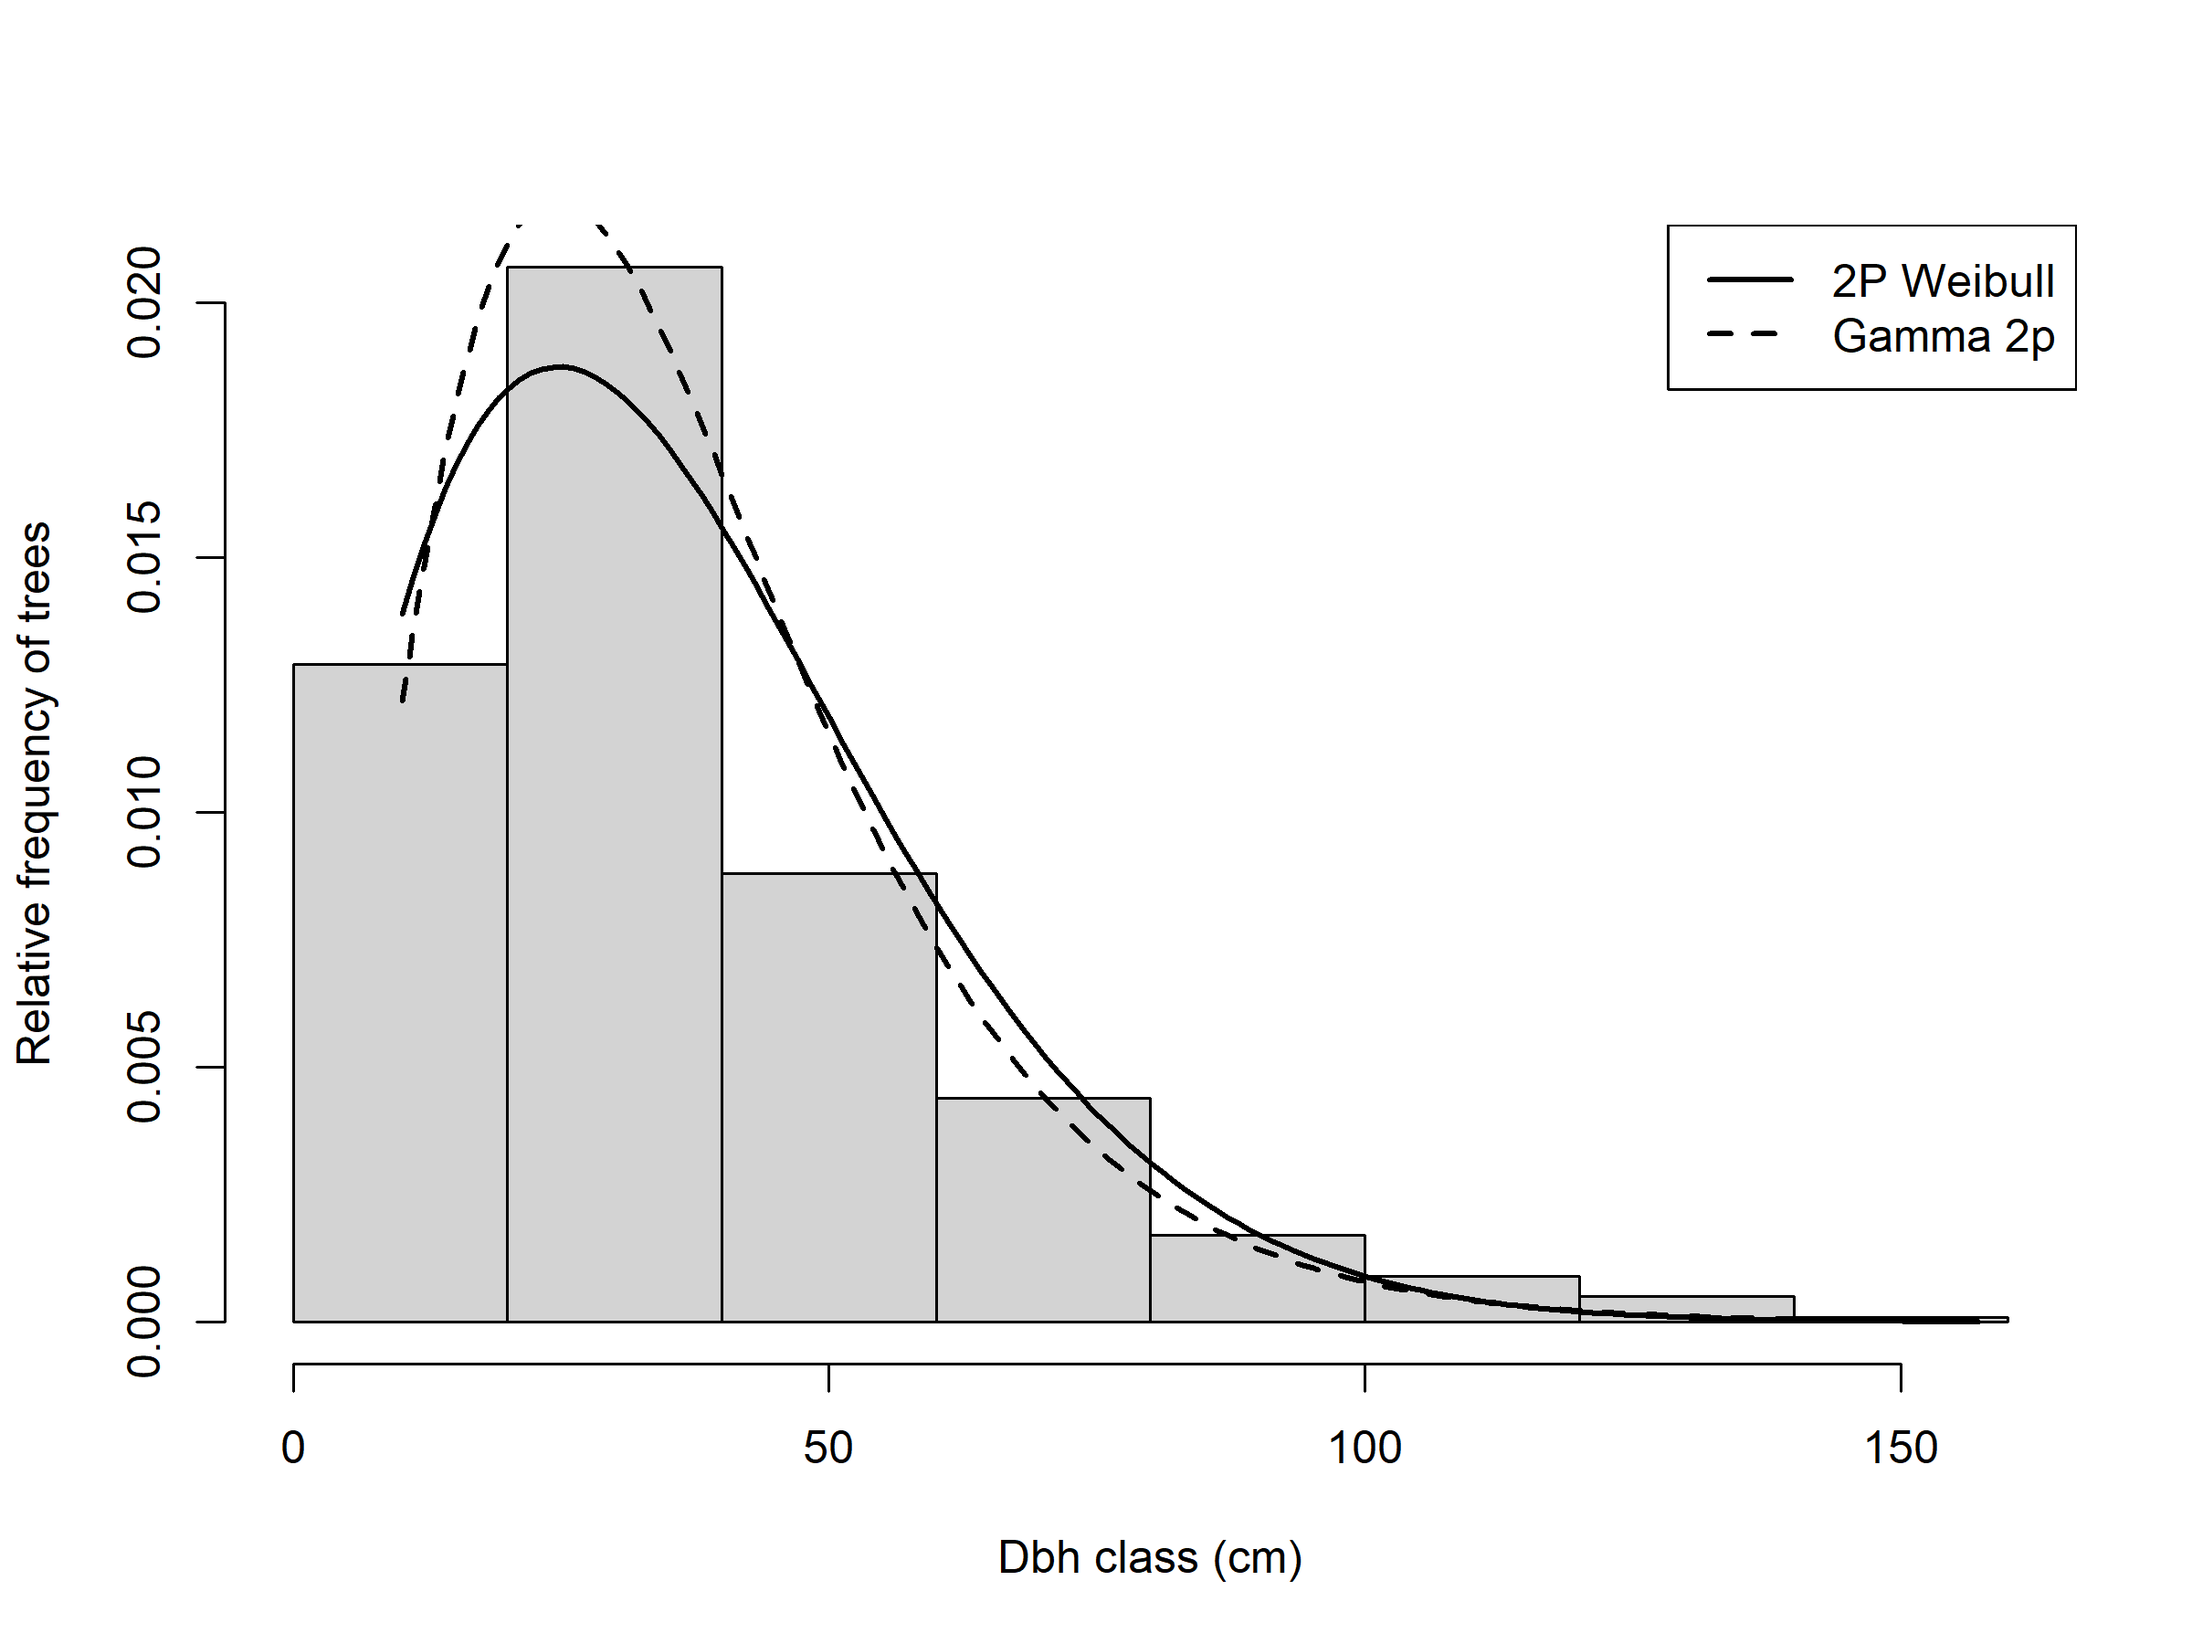
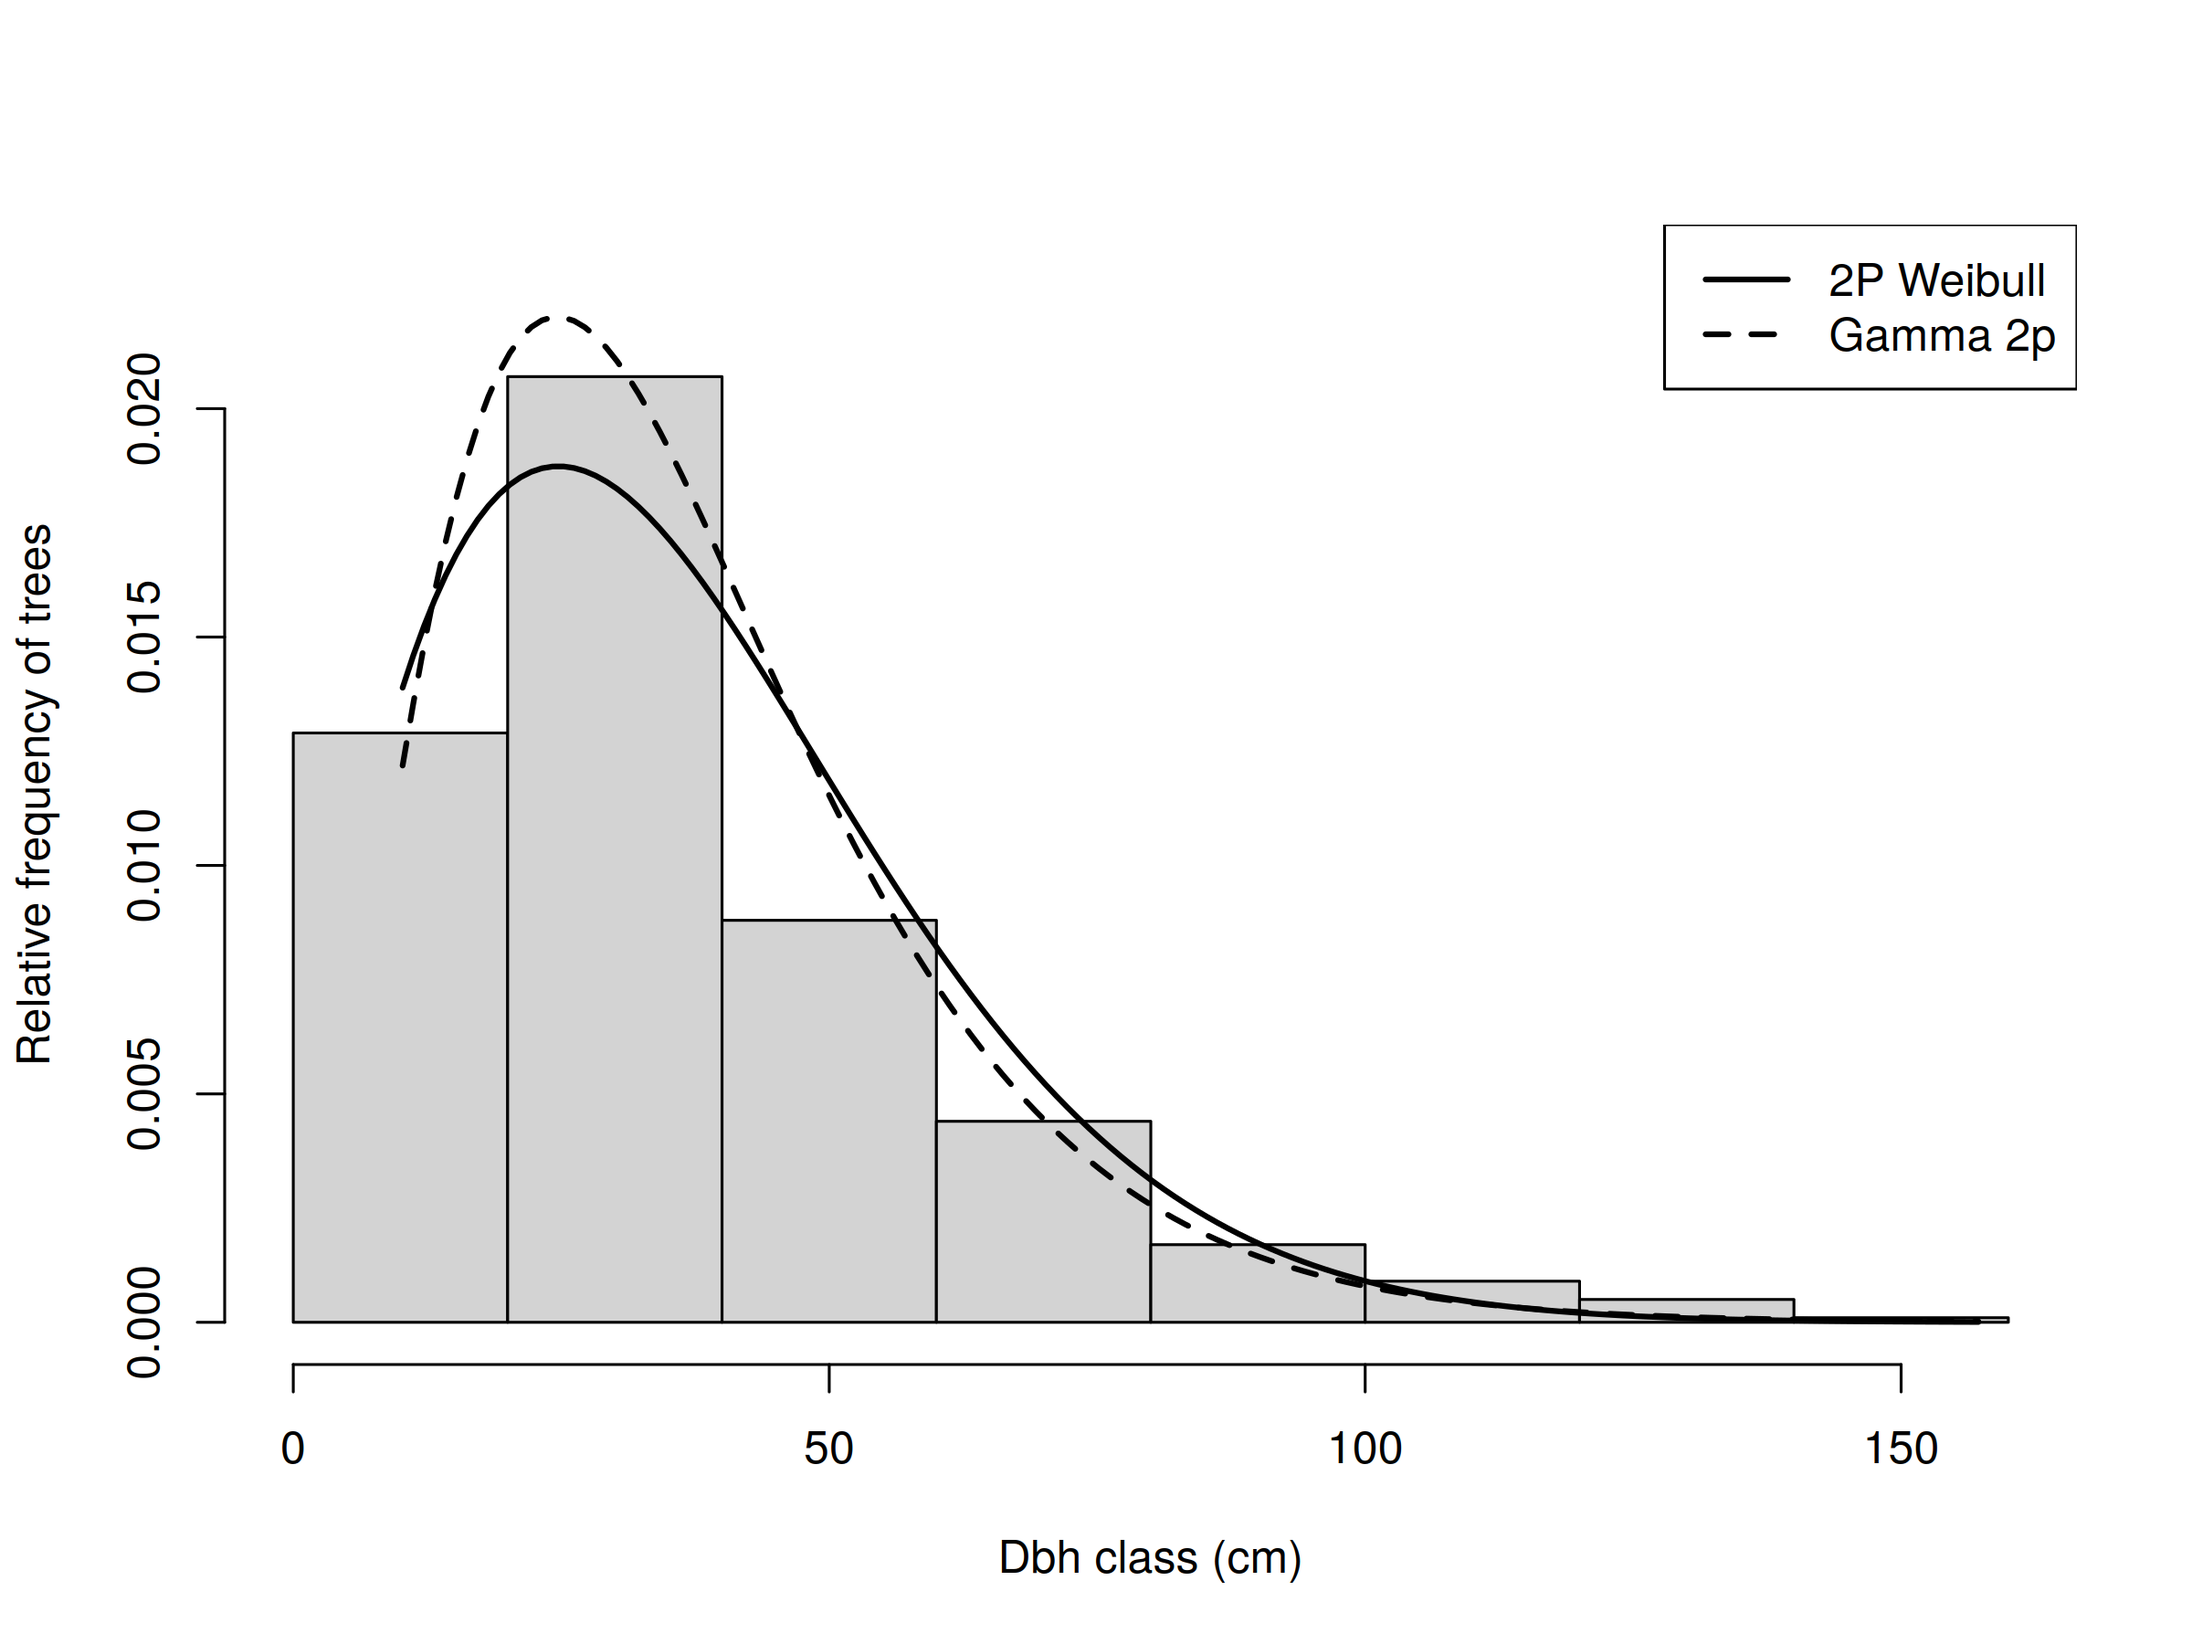
Add files via upload

diff --git a/README.md b/README.md
@@ -1,11 +1,4 @@
-![R pipeline](https://github.com/abiodun-oyediran/01-forest-diameter-distribution-modelling/actions/workflows/R-CMD-check.yml/badge.svg)
-
 # Forest Diameter Distribution Modelling
-
-![License: MIT](https://img.shields.io/badge/License-MIT-yellow.svg)
-![Language: R](https://img.shields.io/badge/language-R-blue.svg)
-![R version](https://img.shields.io/badge/R-%3E%3D%204.0-276DC3.svg)
-![Status](https://img.shields.io/badge/status-active-success.svg)
 
 ## Overview
 
@@ -67,27 +60,61 @@ dbh_sample.csv ─► 01 cleaning ─► 02 diameter classes ─► 03 distribut
 
 ## Results
 
-Running `Rscript run_all.R` writes the ranked goodness-of-fit table
-(`outputs/tables/goodness_of_fit_results.csv`) and the fitted parameters
-(`outputs/tables/parameters_*_format.csv`). The best-ranked model is the first
-row of the goodness-of-fit table and is also printed in the final summary.
-Results obtained on the bundled synthetic sample demonstrate that the pipeline
-works; they are not findings about any forest.
+Results come from running `Rscript run_all.R` on the bundled **synthetic** sample
+(500 trees, DBH 10.2–157.3 cm, mean 36.9 cm). They show that the pipeline works;
+they are not findings about any forest.
+
+Five best-ranked models by rank sum (lower is better; full table in
+`outputs/tables/goodness_of_fit_results.csv`):
+
+| Rank | Model | KS | AD | CvM | AIC | Rank sum |
+|---|---|---|---|---|---|---|
+| 1 | Gamma3 | 0.0234 | 0.235 | 0.0359 | 4276.5 | 3.00 |
+| 2 | Burr4 | 0.0249 | 0.272 | 0.0413 | 4279.4 | 3.35 |
+| 3 | Weibull3 | 0.0251 | 0.439 | 0.0717 | 4278.1 | 3.91 |
+| 4 | Beta4 | 0.0262 | 0.426 | 0.0750 | 4279.4 | 4.11 |
+| 5 | Lognormal3 | 0.0269 | 0.703 | 0.0887 | 4295.8 | 4.72 |
+
+* Gamma3 is best by rank sum, AD, KS and AIC. The 2-parameter Weibull (AIC 4412.9,
+  AD 8.25) and 2-parameter Gamma (AIC 4361.0, AD 5.06) are the two worst fits of the
+  twelve, well behind their shifted 3-parameter versions.
+* The 3-parameter models gain mainly by estimating a location close to the
+  10 cm lower limit of the sample (see [Limitations](#limitations)).
+* Gamma3 estimates: shape 1.28, scale 20.9, location 10.1.
+* Diameter-class counts (10 cm classes) are in `outputs/tables/diameter_class_table.csv`:
+  25% of trees fall in 10–20 cm and 24% in 20–30 cm; 6 trees are 120 cm or larger.
+
+Numbers can differ in later decimals between R and package versions (for example,
+`fitdistrplus` estimates of the 2-parameter Gamma), but the ranking was identical
+across the two runs compared.
 
 ## Example Outputs
 
-Generated by `Rscript run_all.R` (commit the files in `outputs/` to display them here):
+Generated by `Rscript run_all.R` (files in `outputs/`).
+
+**Combined diagnostics** (histogram, Q-Q plot, CDF comparison, rank sums):
+
+![Combined diagnostic plots](outputs/figures/combined_diagnostic_plots.png)
+
+**Top three models against the histogram:**
+
+![Top 3 distributions](outputs/figures/histogram_top3_models.png)
+
+**Q-Q plot of the best-ranked model (Gamma3):**
+
+![Q-Q plot](outputs/figures/qq_plot_best_model.png)
 
 | File | Content |
 |---|---|
-| `outputs/figures/histogram_all_models.png` | Histogram with all fitted densities |
+| `outputs/figures/histogram_all_models.png` | Histogram with all twelve fitted densities |
 | `outputs/figures/histogram_top3_models.png` | Histogram with the three best-ranked densities |
 | `outputs/figures/qq_plot_best_model.png` | Q-Q plot of the best-ranked model |
 | `outputs/figures/cdf_comparison_top3.png` | Empirical vs fitted CDFs, top three models |
 | `outputs/figures/combined_diagnostic_plots.png` | 2 × 2 diagnostic panel |
 | `outputs/figures/histogram_weibull2_gamma2.png` | Histogram with 2-parameter Weibull and Gamma fits |
-
-![Combined diagnostic plots](outputs/figures/combined_diagnostic_plots.png)
+| `outputs/tables/goodness_of_fit_results.csv` | KS, AD, CvM, log-likelihood, AIC and ranks for all models |
+| `outputs/tables/parameters_long_format.csv`, `parameters_wide_format.csv` | Fitted parameters |
+| `outputs/tables/diameter_class_table.csv` | Counts and relative frequencies per 10 cm class |
 
 ## Accuracy / Validation
 
@@ -170,8 +197,14 @@ threshold plus about 6% large trees from a lognormal distribution, rounded to
 
 * Goodness-of-fit statistics are computed on the data used for estimation; no
   p-values or out-of-sample validation are provided.
-* Several location parameters, and some Beta4 parameters, can sit on their
-  optimisation bounds, particularly for data truncated at an inventory threshold.
+* In the bundled run, the location parameter of Burr4, Gamma3 and Weibull3 and the
+  lower limit `a` of Beta4 all equal 10.1, the upper bound (`xmin − 0.1`), and Beta4
+  `shape2` equals its upper bound of 20. The sample is truncated at a 10 cm
+  inventory threshold, so these shifted models effectively recover that threshold,
+  and their advantage over the 2-parameter models should be read with that in mind.
+* The grey "95% confidence envelope" on the Q-Q plot is an approximate band built from
+  normal-quantile standard errors, not an exact pointwise or simultaneous interval,
+  and it widens sharply at the lowest quantiles.
 * The ranking depends on the set of candidate models and on the bounds and
   starting values chosen in `R/03_distribution_fitting.R`.
 * The bundled data are simulated; results on them say nothing about real stands.

diff --git a/docs/methodology.md b/docs/methodology.md
@@ -139,6 +139,7 @@ else keeps the original logic, function names and variable names.
 | B7 | `rowSums(..., na.rm = TRUE)` gave failed fits a rank sum of 0 (best) | Rank sum is `NA` unless all three ranks exist; such models sort last |
 | B8 | `cvm.test` statistic carried a name that leaked into data-frame row names | Converted with `as.numeric` |
 | B9 | All-models plot had a legend that did not name the models | Legend names every model; colour and line type are unique per model |
+| B10 | In the Weibull/Gamma histogram the y-axis was sized from the histogram alone, so the Gamma peak was clipped | y-axis limit covers the histogram and both curves |
 | — | `file.choose()` and working-directory outputs | Input path and output folders via `DBH_CSV`, `OUT_FIG_DIR`, `OUT_TAB_DIR` |
 | — | Eight packages loaded, six unused | Only `fitdistrplus` and `goftest` are loaded |
 | — | KS ties warning | `suppressWarnings` around `ks.test` (p-value is not used) |
